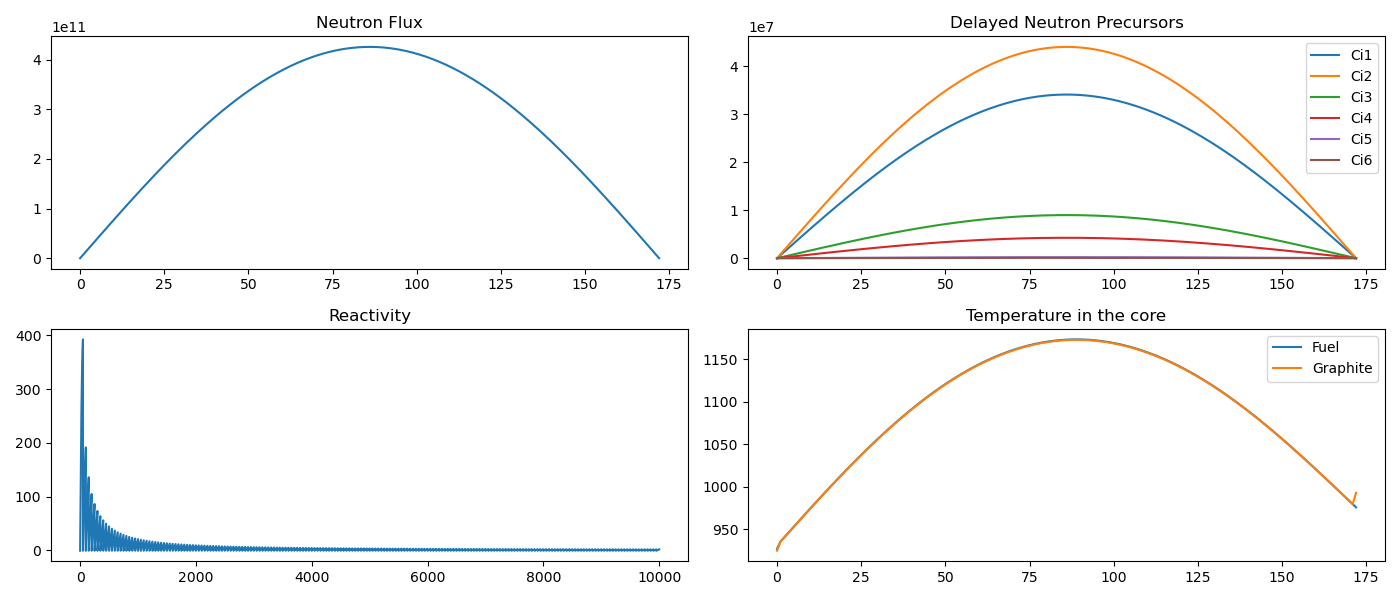
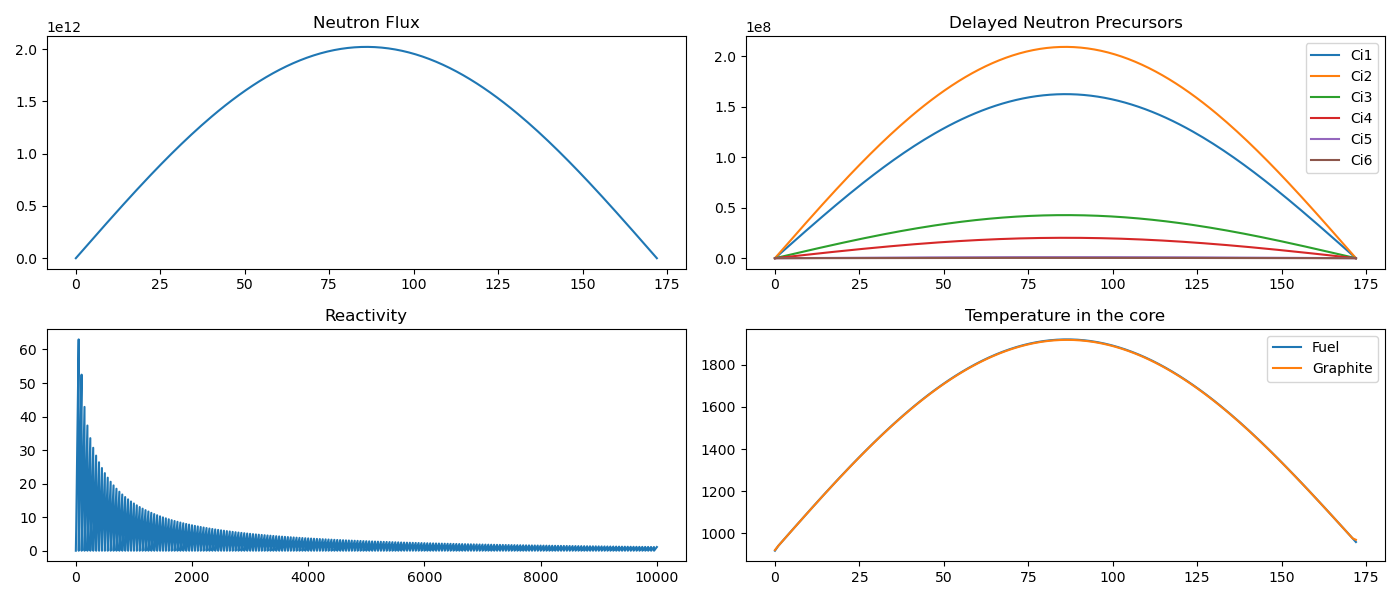
parameters

diff --git a/parameters.py b/parameters.py
@@ -33,13 +33,13 @@ def generate_parameters(
     # c0 = (delta / (sum(lambda_i)/6)) * phi_0
 
     # Thermal-Hydraulics
-    c_p_s = 1983,  # 1983, Specific heat of primary salt, J/kgK
+    c_p_s = 2090,  # 1983, Specific heat of primary salt, J/kgK
     c_p_g = 1757,    # 1757, Specific heat of graphite, J/kg K
     # Vc = 0.2,    # Salt velocity in the core, m/s
     Vc = 0.2,
     Ms = 1448,   # 1448, Fuel salt mass in the core, kg
     Mg = 3687,   # 3687, Mass of graphite in the core, kg
-    gamma = 0.93,    # Fraction of power released in the salt
+    gamma = 0.9,    # 0.93, Fraction of power released in the salt
     U = 36000,   # Overall heat transfer coefficient between salt and graphite, W/K
     # U = 1800,
     # Temp input for test:
@@ -47,14 +47,14 @@ def generate_parameters(
     # q_prime=Amplitude * sin(pi * linspace(0, L, N) / L)';
     # q_prime=Amplitude;
     # Boundary conditions
-    # bc_s0 = 910,
-    # bc_sL = 958.15,
-    # bc_g0 = 920,
-    # bc_gL = 968.71,
-    bc_s0 = 922,
-    bc_sL = 976,
-    bc_g0 = 925,
-    bc_gL = 993,
+    bc_s0 = 910,
+    bc_sL = 958.15,
+    bc_g0 = 920,
+    bc_gL = 968.71,
+    # bc_s0 = 922,
+    # bc_sL = 976,
+    # bc_g0 = 925,
+    # bc_gL = 993,
     # bc_s0 = 0,
     # bc_sL = 0,
     # bc_g0 = 0,

diff --git a/reactivity.py b/reactivity.py
@@ -23,7 +23,7 @@ def reactivity(temperature_fuel_r, temperature_graphite_r, temperature_fuel, tem
     # rho_0 = 0.0011211260746046986
     # rho_0 = 0.000009
     # print(f'rho_0{rho_0}')
-    rho_0=-rho_0*np.ones(N)
+    rho_0=0*np.ones(N)
     
     # rho_0= - 4 * np.sin(np.pi * (np.linspace(0, L, N) ) / (L*4)+(L/4))
     # print(rho_0)
@@ -60,7 +60,7 @@ def reactivity(temperature_fuel_r, temperature_graphite_r, temperature_fuel, tem
         
     rho_feedback=(temperature_fuel_r-temperature_fuel)*alpha_f+(temperature_graphite_r-temperature_graphite)*alpha_g
     # rho_feedback = rho_feedback *0
-    rho=rho_0+rho_feedback+react
+    rho=rho_0+rho_feedback*0.1+react
     
     # rho=rho_init * np.ones(N)
     

diff --git a/main.py b/main.py
@@ -13,7 +13,7 @@ from transport_delay import transport_delay
 from power_plant import power_plant_temp
 
 def run_simulation(params, index):
-    time_span = 2000
+    time_span = 200000
     N = params['N']
     Nx = params['Nx']
 
